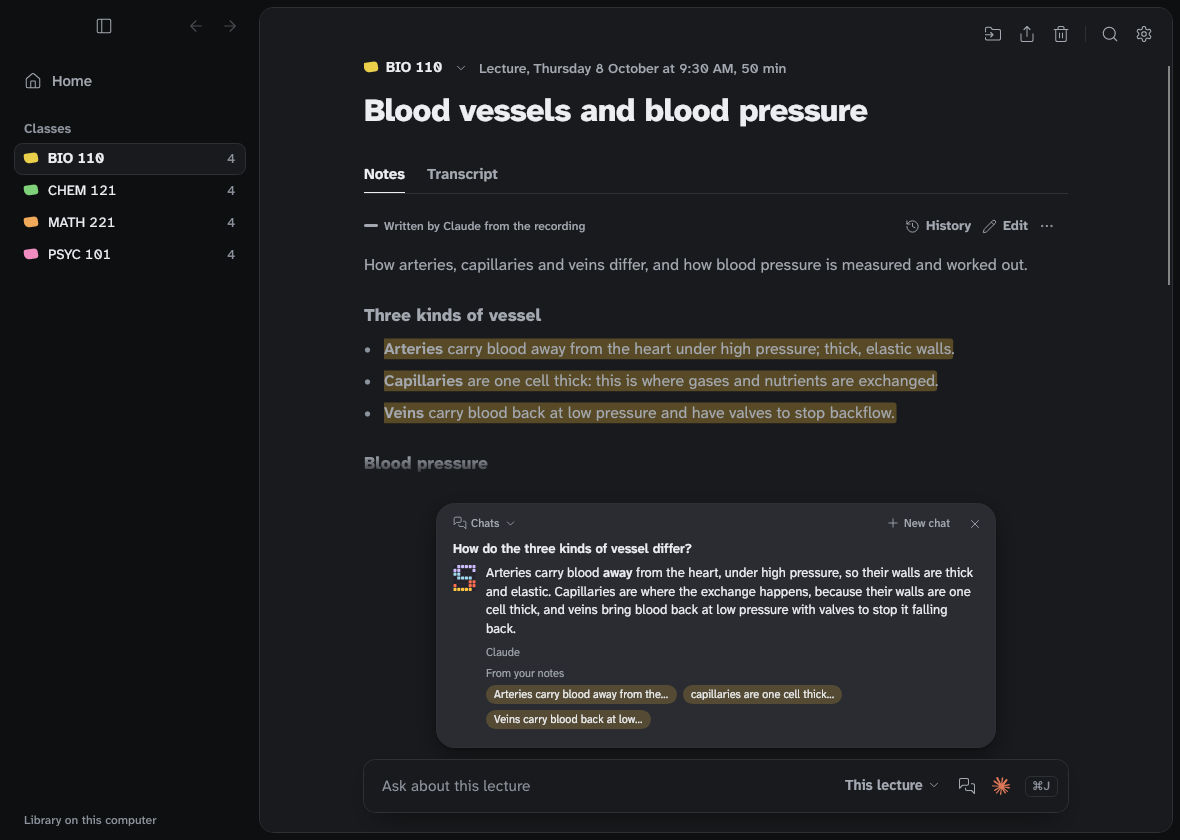
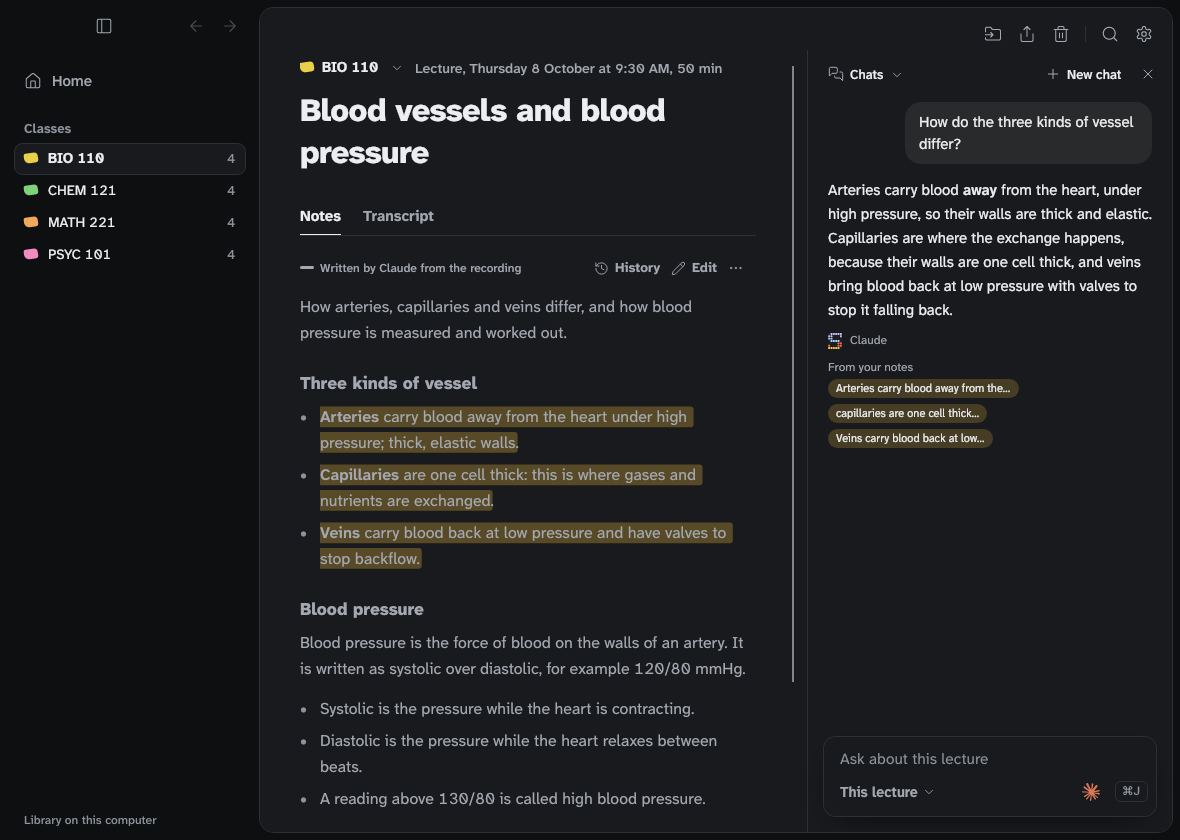
The notes keep a little room before the conversation's panel, so their scroll bar no longer sits on the panel's line and reads as a second one; the highlight pictures are drawn again with the answer in the panel beside the notes

diff --git a/engine/src/StudyStash.App/Views/AskSplit.cs b/engine/src/StudyStash.App/Views/AskSplit.cs
@@ -79,6 +79,9 @@ public sealed class AskSplit : Panel
     const double RestBelow = 20, RestSide = 56, RestSideNarrow = 24;
     /// <summary>The bar's room docked in the panel: from the panel's edges and its foot, and between the thread's end and the bar.</summary>
     const double DockSide = 16, DockBelow = 16, ThreadGap = 12;
+    /// <summary>Room between the page and the panel's edge beside it, so the page's scroll bar doesn't sit on the panel's
+    /// line and read as a second one.</summary>
+    const double Gutter = 12;
 
     /// <summary>What drives a glide: the app's eased frame clock; a test's film steps it itself.</summary>
     internal static Func<Visual, TimeSpan, Action<double>, Action?, IDisposable> Animate { get; set; } = Motion.Animate;
@@ -258,7 +261,7 @@ public sealed class AskSplit : Panel
         asSheet = w < SheetBelow;
         if (wasSheet != asSheet) Mark();
         double panel = PanelWidth(w);
-        page?.Measure(new Size(Beside ? w - panel : w, h));
+        page?.Measure(new Size(Beside ? w - panel - Gutter : w, h));
         if (bar is not null) MeasureBar(BarAt(w, h, open).Width);
         sheet.Padding = new Thickness(0, 0, 0, BarRoom());
         sheet.BorderThickness = new Thickness(asSheet ? 0 : 1, 0, 0, 0);
@@ -292,7 +295,7 @@ public sealed class AskSplit : Panel
         double panel = PanelWidth(w);
         if (page is not null)
         {
-            page.Arrange(new Rect(0, 0, Beside ? w - panel : w, h));
+            page.Arrange(new Rect(0, 0, Beside ? w - panel - Gutter : w, h));
             // Where the page's column lands, against where it was: the glide moves it across from there.
             if (anchorWas is { } was)
             {
